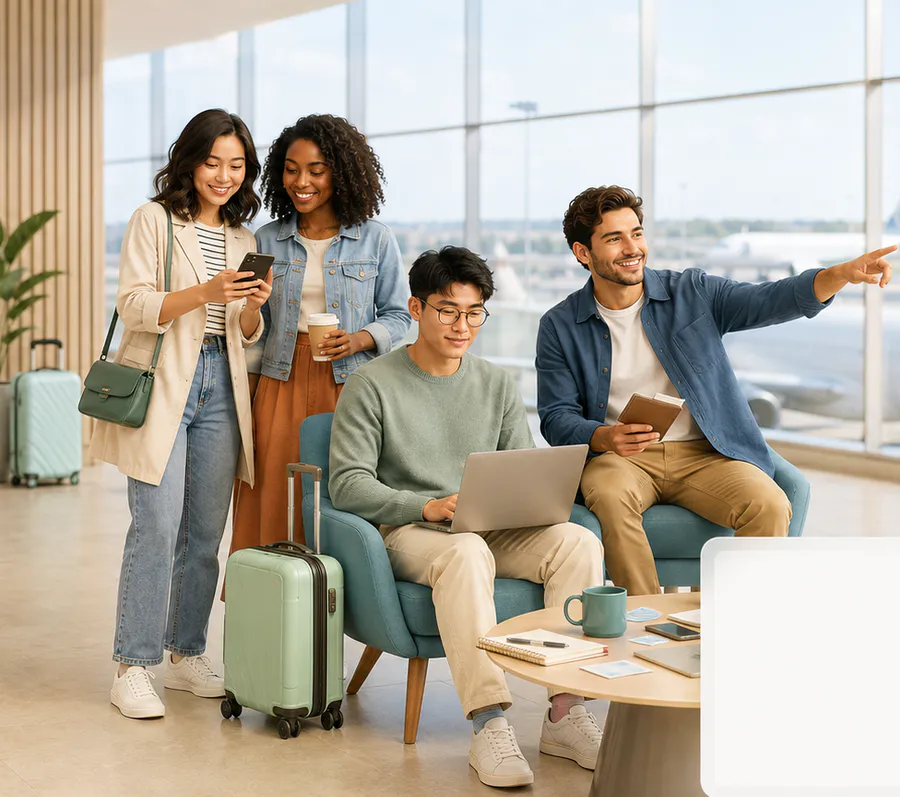
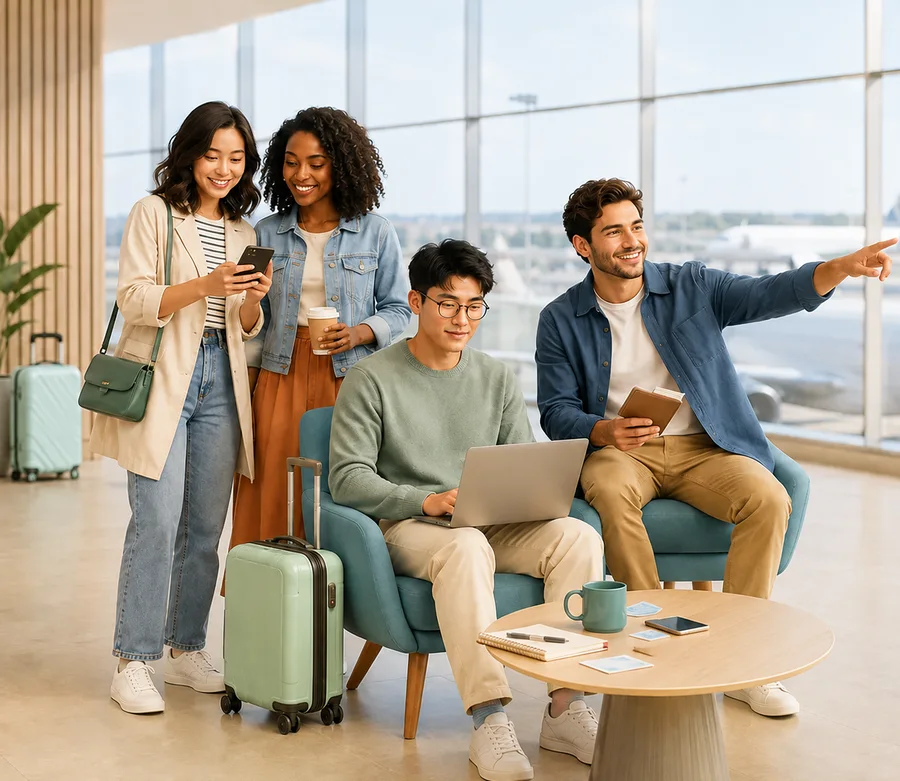
Localize and refine landing preview composition

diff --git a/web/app/landing-preview/landing-journey.tsx b/web/app/landing-preview/landing-journey.tsx
@@ -17,6 +17,27 @@ const chapters = [
 
 const scenes = ["01-organize", "02-upload", "03-picture", "04-adviser", "05-plan", "06-life"] as const;
 
+type LandingMarket = "ph" | "global";
+
+const marketContent = {
+  ph: {
+    documents: [["BPI STATEMENT", "12 months"], ["RECEIPT", "₱2,480"], ["GCASH EXPORT", "Old records"], ["MERALCO BILL", "Card activity"]],
+    uploadRows: ["BPI statement", "SM receipt", "GCash export"],
+    balance: "₱633,688.84", income: "₱68,000", expenses: "₱31,420", cashFlow: "₱36,580",
+    transactions: [["Pay day • BPI", "+ ₱68,000"], ["SM Supermarket", "− ₱2,480"], ["Meralco", "− ₱4,920"], ["Grab", "− ₱220"]],
+    insight: "Dining is down 12% this month. You could move the difference toward your Japan goal without changing your usual budget.",
+    planAmount: "₱12,000",
+  },
+  global: {
+    documents: [["CHASE STATEMENT", "12 months"], ["RECEIPT", "$84.20"], ["PAYPAL EXPORT", "Old records"], ["UTILITY BILL", "Card activity"]],
+    uploadRows: ["Chase statement", "Whole Foods receipt", "PayPal export"],
+    balance: "$24,860.42", income: "$6,800", expenses: "$3,142", cashFlow: "$3,658",
+    transactions: [["Pay day • Chase", "+ $6,800"], ["Whole Foods", "− $84"], ["National Grid", "− $192"], ["Uber", "− $22"]],
+    insight: "Dining is down 12% this month. You could move the difference toward your Japan goal without changing your usual budget.",
+    planAmount: "$820",
+  },
+} as const;
+
 function JourneyActions({ authEnabled, final = false }: { authEnabled: boolean; final?: boolean }) {
   return <div className={styles.actions}>
     {authEnabled ? <LandingSignupModal enabled>Organize my finances for free</LandingSignupModal> : <Link className="button button-primary button-pill" href="/sign-up" prefetch={false}>Organize my finances for free</Link>}
@@ -24,10 +45,18 @@ function JourneyActions({ authEnabled, final = false }: { authEnabled: boolean; 
   </div>;
 }
 
-export function LandingJourney({ authEnabled }: { authEnabled: boolean }) {
+export function LandingJourney({ authEnabled, initialMarket, countryResolved }: { authEnabled: boolean; initialMarket: LandingMarket; countryResolved: boolean }) {
   const journeyRef = useRef<HTMLDivElement>(null);
   const frameRef = useRef<number | null>(null);
   const [chapter, setChapter] = useState(0);
+  const [market, setMarket] = useState<LandingMarket>(initialMarket);
+
+  useEffect(() => {
+    if (countryResolved || initialMarket === "ph") return;
+    const localeLooksPhilippine = navigator.languages.some((locale) => /(?:^|-)PH$/i.test(locale) || /^fil(?:-|$)/i.test(locale));
+    const timezoneLooksPhilippine = Intl.DateTimeFormat().resolvedOptions().timeZone === "Asia/Manila";
+    if (localeLooksPhilippine || timezoneLooksPhilippine) setMarket("ph");
+  }, [countryResolved, initialMarket]);
 
   useEffect(() => {
     const journey = journeyRef.current;
@@ -61,7 +90,9 @@ export function LandingJourney({ authEnabled }: { authEnabled: boolean }) {
     window.scrollTo({ top, behavior: window.matchMedia("(prefers-reduced-motion: reduce)").matches ? "auto" : "smooth" });
   };
 
-  return <div ref={journeyRef} className={styles.journey} data-chapter={chapter} style={{ "--journey-progress": 0 } as CSSProperties}>
+  const local = marketContent[market];
+
+  return <div ref={journeyRef} className={styles.journey} data-chapter={chapter} data-market={market} style={{ "--journey-progress": 0 } as CSSProperties}>
     <div className={styles.stage}>
       <header className={styles.header}>
         <Link href="/" className={styles.brand} aria-label="Clover home">
@@ -94,31 +125,31 @@ export function LandingJourney({ authEnabled }: { authEnabled: boolean }) {
       </section>
 
       <div className={styles.documents} data-story-visual="documents" aria-hidden="true">
-        <div><small>STATEMENT</small><b>12 months</b><i /><i /><i /></div>
-        <div><small>RECEIPT</small><b>₱2,480</b><i /><i /></div>
-        <div><small>SPREADSHEET</small><b>Old records</b><span>▦</span></div>
-        <div><small>SCREENSHOT</small><b>Card activity</b><span>▤</span></div>
+        <div><small>{local.documents[0][0]}</small><b>{local.documents[0][1]}</b><i /><i /><i /></div>
+        <div><small>{local.documents[1][0]}</small><b>{local.documents[1][1]}</b><i /><i /></div>
+        <div><small>{local.documents[2][0]}</small><b>{local.documents[2][1]}</b><span>▦</span></div>
+        <div><small>{local.documents[3][0]}</small><b>{local.documents[3][1]}</b><span>▤</span></div>
       </div>
 
       <div className={styles.phone} data-story-visual="phone" aria-hidden="true">
         <div className={styles.phoneBar}><Image src="/clover-mark.svg" alt="" width={28} height={28} /><span>Upload files</span><i /></div>
         <strong>Bring in your finances</strong><p>Choose the records already on your device.</p>
-        <div className={styles.uploadRows}><span>▤ Statement <b>Ready</b></span><span>▧ Receipt <b>Ready</b></span><span>▦ Spreadsheet <b>Ready</b></span></div>
+        <div className={styles.uploadRows}>{local.uploadRows.map((label, index) => <span key={label}>{["▤", "▧", "▦"][index]} {label} <b>Ready</b></span>)}</div>
         <button type="button">Upload 3 files</button>
       </div>
 
       <div className={styles.laptop} data-story-visual="laptop" aria-hidden="true"><div className={styles.laptopScreen}>
         <div className={styles.appBar}><Image src="/clover-mark.svg" alt="" width={26} height={26} /><span>Home</span><i /><i /></div>
-        <div className={styles.balance}><small>MY BALANCE</small><strong>₱633,688.84</strong><span>Across your accounts</span></div>
-        <div className={styles.summary}><div><small>INCOME</small><b>₱68,000</b></div><div><small>EXPENSES</small><b>₱31,420</b></div><div><small>NET CASH FLOW</small><b>₱36,580</b></div></div>
-        <div className={styles.transactionRows}>{['Pay day', 'Groceries', 'Rent', 'Coffee shop'].map((label, index) => <span key={label}><i />{label}<b>{index === 0 ? '+' : '−'} ₱{[68000,2480,24000,220][index].toLocaleString()}</b></span>)}</div>
+        <div className={styles.balance}><small>MY BALANCE</small><strong>{local.balance}</strong><span>Across your accounts</span></div>
+        <div className={styles.summary}><div><small>INCOME</small><b>{local.income}</b></div><div><small>EXPENSES</small><b>{local.expenses}</b></div><div><small>NET CASH FLOW</small><b>{local.cashFlow}</b></div></div>
+        <div className={styles.transactionRows}>{local.transactions.map(([label, amount]) => <span key={label}><i />{label}<b>{amount}</b></span>)}</div>
       </div><span className={styles.laptopBase} /></div>
 
-      <div className={styles.adviser} data-story-visual="adviser" aria-hidden="true"><div><Image src="/clover-mark.svg" alt="" width={34} height={34} /><span><small>ASK CLOVER</small><b>Your financial picture</b></span></div><p>Dining is down 12% this month. You could move the difference toward your Japan goal without changing your usual budget.</p><div className={styles.suggestion}><span>✈</span><b>Japan in spring</b><strong>₱12,000 monthly</strong></div><button type="button">Create this plan →</button></div>
+      <div className={styles.adviser} data-story-visual="adviser" aria-hidden="true"><div><Image src="/clover-mark.svg" alt="" width={34} height={34} /><span><small>ASK CLOVER</small><b>Your financial picture</b></span></div><p>{local.insight}</p><div className={styles.suggestion}><span>✈</span><b>Japan in spring</b><strong>{local.planAmount} monthly</strong></div><button type="button">Create this plan →</button></div>
 
       <div className={styles.planCard} data-story-visual="plan" aria-hidden="true">
         <div><Image src="/clover-mark.svg" alt="" width={30} height={30} /><span><small>CLOVER RECOMMENDATION</small><b>Japan trip</b></span></div>
-        <strong>₱12,000 <small>per month</small></strong>
+        <strong>{local.planAmount} <small>per month</small></strong>
         <div><i /><i /><i /><i /></div>
         <p>Ready by March</p>
       </div>

diff --git a/web/app/landing-preview/landing-preview.module.css b/web/app/landing-preview/landing-preview.module.css
@@ -59,3 +59,55 @@
   .phone{width:60vw}
   .planCard{width:72vw}
 }
+
+/* Keep the cast in a clear, unfiltered scene plane. Copy and interactive
+   product moments occupy their own zones instead of covering people. */
+@media(min-width:901px){
+  .worldWash{background:linear-gradient(90deg,rgba(249,253,253,.96) 0 22%,rgba(249,253,253,.72) 25%,transparent 27.5%)}
+  .chapter{top:128px;left:clamp(34px,5.4vw,82px);width:min(360px,26vw);translate:0 0}
+  .chapter h1{font-size:clamp(32px,2.9vw,42px);line-height:1.06}
+  .chapter p{max-width:350px;font-size:clamp(13px,1vw,15px)}
+  .documents{top:auto;right:auto;bottom:3vh;left:clamp(250px,23vw,350px);transform-origin:bottom left}
+  .phone{top:auto;right:auto;bottom:3vh;left:clamp(34px,5.4vw,82px);transform-origin:bottom left}
+  .laptop{top:auto;right:auto;bottom:3vh;left:clamp(34px,5.4vw,82px);width:min(34vw,480px);transform-origin:bottom left}
+  .adviser{top:auto;right:auto;bottom:4vh;left:clamp(34px,5.4vw,82px);width:min(33vw,450px);transform-origin:bottom left}
+  .planCard{right:auto;bottom:7vh;left:clamp(34px,5.4vw,82px);width:min(28vw,380px);transform-origin:bottom left}
+  .journey[data-chapter="0"] .documents{transform:scale(.4)}
+  .journey[data-chapter="0"] .laptop{transform:scale(.53)}
+  .journey[data-chapter="1"] .documents{right:auto;left:clamp(230px,21vw,320px);transform:scale(.5)}
+  .journey[data-chapter="1"] .phone{transform:scale(.58) rotate(0)}
+  .journey[data-chapter="2"] .laptop{transform:scale(.68)}
+  .journey[data-chapter="3"] .adviser{transform:scale(.72) rotate(0)}
+  .journey[data-chapter="4"] .planCard{transform:scale(.88)}
+  .journey[data-chapter="5"] .worldWash{background:linear-gradient(90deg,rgba(249,253,253,.92) 0 22%,rgba(249,253,253,.6) 25%,transparent 27.5%)}
+}
+
+@media(max-width:900px){
+  .sceneStack{top:31%;height:45%}
+  .scene img{object-fit:contain;object-position:center top}
+  .world>.worldWash,.journey[data-chapter="5"] .worldWash{background:linear-gradient(180deg,rgba(249,253,253,.99) 0 29.8%,transparent 30%)}
+  .chapter{top:82px;left:14px;width:calc(100vw - 44px)}
+  .chapter h1{max-width:15ch;font-size:clamp(25px,7vw,32px);line-height:1.04}
+  .chapter p{max-width:39ch;margin-top:10px;font-size:12px;line-height:1.38}
+  .actions{margin-top:13px}
+  .actions :global(.button){min-height:38px}
+  .documents{top:auto;right:auto;bottom:8px;left:4px;transform-origin:bottom left}
+  .phone{top:auto;right:auto;bottom:9px;left:14px;width:min(54vw,220px);min-height:350px;transform-origin:bottom left}
+  .laptop{top:auto;right:auto;bottom:10px;left:14px;width:86vw;transform-origin:bottom left}
+  .adviser{top:auto;right:auto;bottom:10px;left:14px;width:76vw;padding:16px;transform-origin:bottom left}
+  .planCard{right:auto;bottom:12px;left:14px;width:min(72vw,320px);transform-origin:bottom left}
+  .journey[data-chapter="0"] .documents{transform:scale(.3)}
+  .journey[data-chapter="0"] .laptop{transform:scale(.7)}
+  .journey[data-chapter="1"] .documents{right:auto;left:2px;transform:scale(.32)}
+  .journey[data-chapter="1"] .phone{transform:scale(.52) rotate(0)}
+  .journey[data-chapter="2"] .laptop{transform:scale(.86)}
+  .journey[data-chapter="3"] .adviser{transform:scale(.63) rotate(0)}
+  .journey[data-chapter="4"] .planCard{transform:scale(.78)}
+}
+
+@media(max-width:540px){
+  .chapter h1{font-size:clamp(24px,6.8vw,29px)}
+  .chapter p{font-size:11.5px}
+  .actions{width:min(228px,67vw)}
+  .sceneStack{top:31%;height:45%}
+}

diff --git a/web/scripts/browser-compatibility-regression.ts b/web/scripts/browser-compatibility-regression.ts
@@ -9,6 +9,7 @@ const readSource = (relativePath: string) => readFile(path.join(root, relativePa
 async function main() {
   const landingJourneySource = await readSource("app/landing-preview/landing-journey.tsx");
   const landingJourneyStyles = await readSource("app/landing-preview/landing-preview.module.css");
+  const landingPreviewPageSource = await readSource("app/landing-preview/page.tsx");
   const landingSceneNames = ["01-organize", "02-upload", "03-picture", "04-adviser", "05-plan", "06-life"];
 
   await Promise.all(
@@ -19,6 +20,11 @@ async function main() {
   assert.match(landingJourneySource, /const scenes = \["01-organize", "02-upload", "03-picture", "04-adviser", "05-plan", "06-life"\]/, "The scrollable landing story must retain all six people-led scenes in order.");
   assert.match(landingJourneySource, /<source media="\(max-width: 900px\)" srcSet=\{`\/assets\/landing-story-v2\/\$\{scene\}-mobile\.webp`\}/, "The landing story must use mobile-specific crops that keep its recurring cast visible.");
   assert.match(landingJourneyStyles, /@media\(max-width:900px\)\{[\s\S]*?\.markers\{right:8px;top:50%;bottom:auto;flex-direction:column;/, "The landing-story chapter tracker must remain on the right on mobile.");
+  assert.match(landingPreviewPageSource, /x-vercel-ip-country/, "The landing preview must choose localized finance examples from the visitor country.");
+  assert.match(landingJourneySource, /BPI STATEMENT[\s\S]*GCASH EXPORT[\s\S]*CHASE STATEMENT[\s\S]*PAYPAL EXPORT/, "The landing preview must keep Philippine and global document examples.");
+  assert.match(landingJourneySource, /data-market=\{market\}/, "The selected landing market must remain observable for browser verification.");
+  assert.match(landingJourneyStyles, /Keep the cast in a clear, unfiltered scene plane/, "The landing composition must preserve an unobstructed people layer.");
+  assert.match(landingJourneyStyles, /@media\(max-width:900px\)\{[\s\S]*?\.sceneStack\{top:31%;height:45%\}/, "Mobile must keep people and product surfaces in separate vertical planes.");
 
   assert.equal(
     getVerifiedSpendingMerchantName({

diff --git a/web/app/landing-preview/page.tsx b/web/app/landing-preview/page.tsx
@@ -1,4 +1,5 @@
 import type { Metadata } from "next";
+import { headers } from "next/headers";
 import Script from "next/script";
 import { LandingJourney } from "./landing-journey";
 
@@ -7,15 +8,18 @@ export const metadata: Metadata = {
   description: "Follow one day with Clover, from scattered financial records to a clearer plan and more time for life.",
 };
 
-export default function ScrollableLandingPreviewPage() {
+export default async function ScrollableLandingPreviewPage() {
   const authEnabled = Boolean(process.env.NEXT_PUBLIC_CLERK_PUBLISHABLE_KEY ?? process.env.CLERK_PUBLISHABLE_KEY);
+  const requestHeaders = await headers();
+  const countryCode = requestHeaders.get("x-vercel-ip-country")?.toUpperCase() ?? null;
+  const initialMarket = countryCode === "PH" ? "ph" : "global";
 
   return (
     <main id="main-content" tabIndex={-1}>
       <Script id="scroll-landing-force-light-theme" strategy="beforeInteractive">
         {`try { if (window.location.pathname === "/landing-preview") { document.documentElement.dataset.theme = "light"; document.documentElement.style.colorScheme = "light"; } } catch (error) {}`}
       </Script>
-      <LandingJourney authEnabled={authEnabled} />
+      <LandingJourney authEnabled={authEnabled} initialMarket={initialMarket} countryResolved={countryCode !== null} />
     </main>
   );
 }
